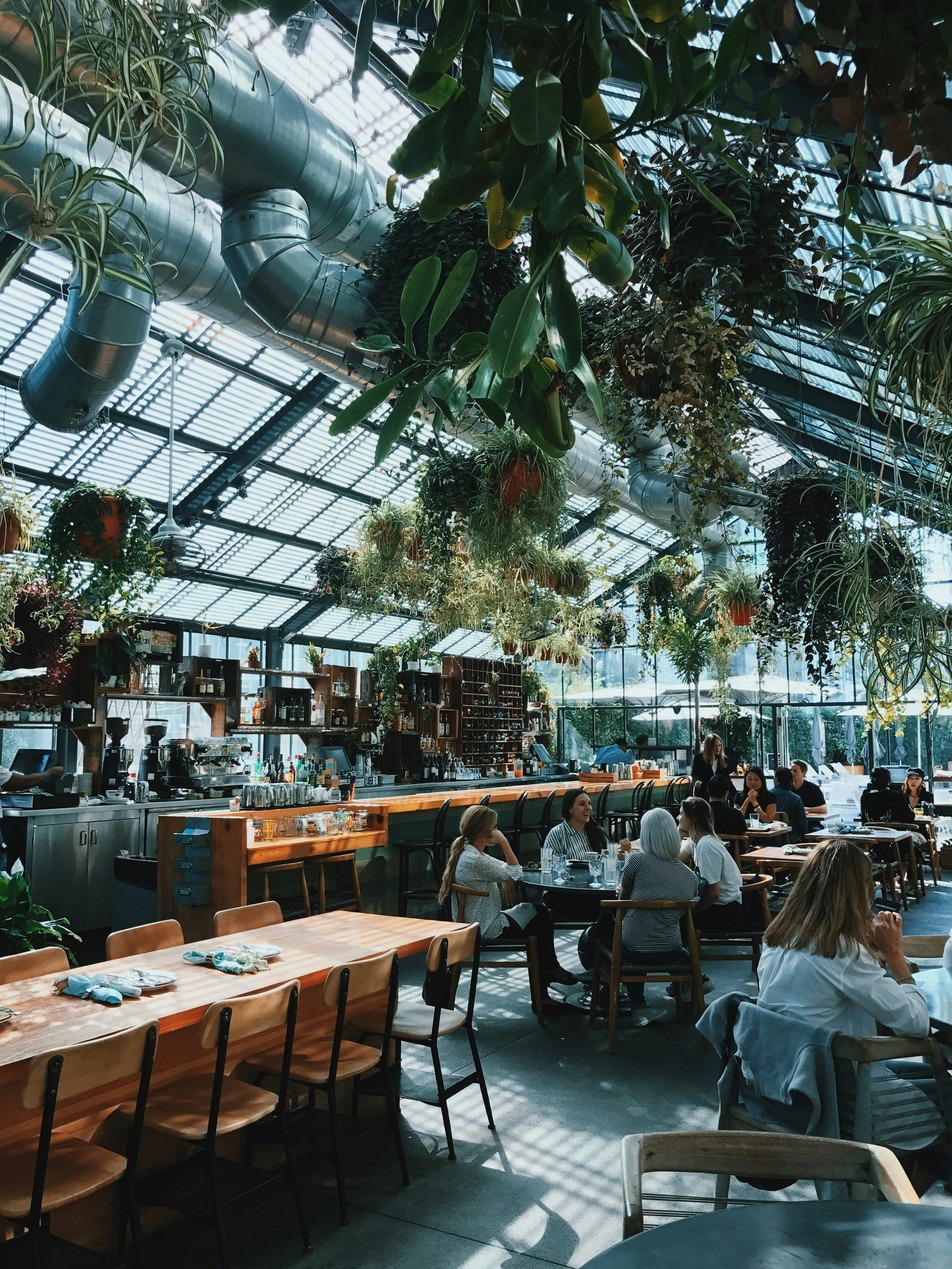
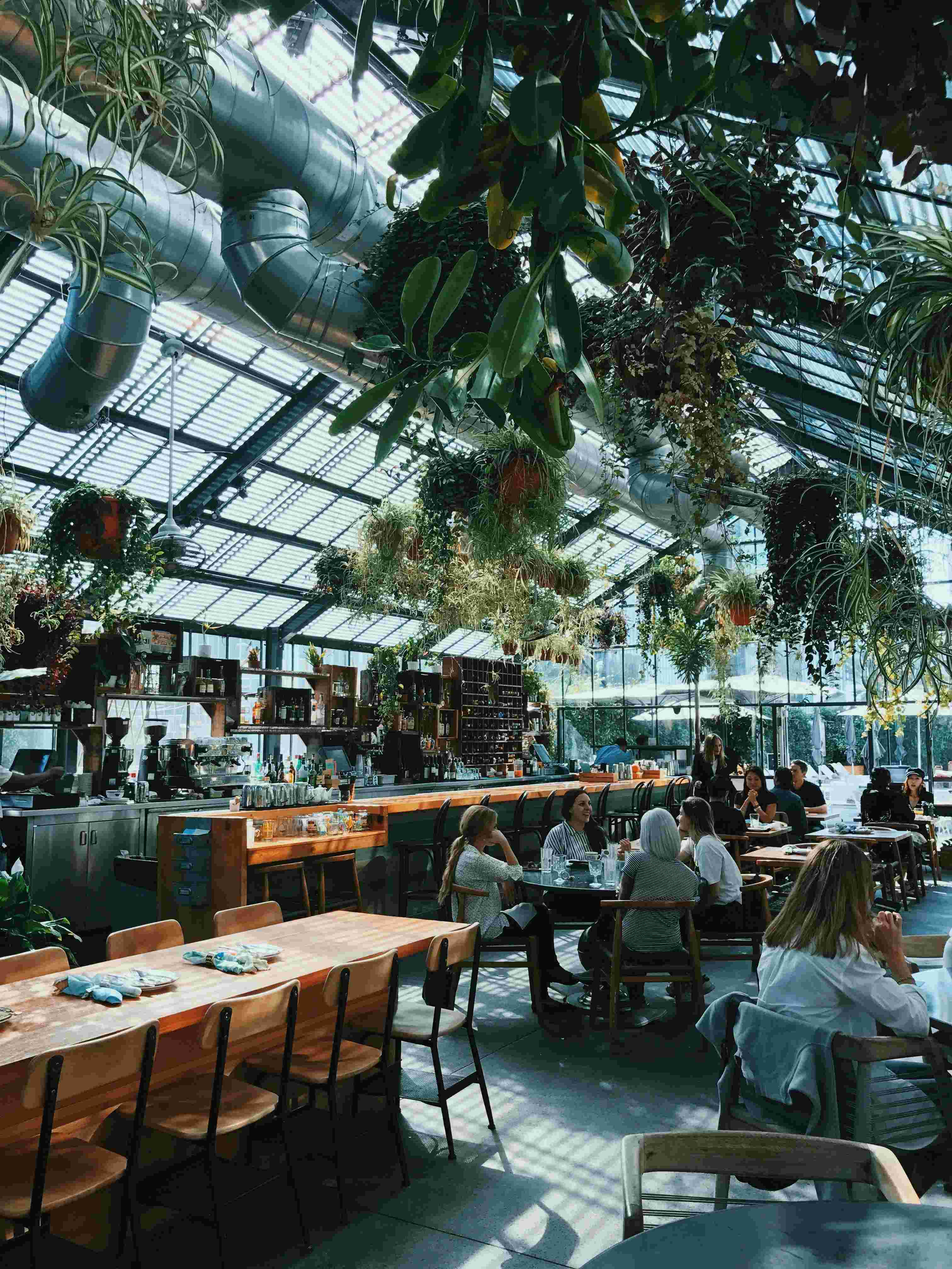
docs: update readme, and reduce default image filesize

diff --git a/README.md b/README.md
@@ -18,47 +18,29 @@ With the growing demand for on-demand food delivery, restaurants are seeking eff
 
     Open **Docker Desktop** on your machine.
 
-3. **Build and start all services**
+3. (Only for Windows) The backend has a shell script [backend/entrypoint.sh](./backend/entrypoint.sh) that may be converted to CRLF line endings when on Windows. So we need to convert it to LF line endings before running the docker service. 
+
+    ```sh
+    # open a git bash terminal(!!) at the project root folder.
+
+    dos2unix backend/entrypoint.sh
+
+    # the terminal will show:
+    # dos2unix: converting file backend/entrypoint.sh to Unix format ...
+    # then you can close the terminal
+    ```
+
+4. **Build and start all services**
 
     ```sh
     docker-compose up --force-recreate --build
     ```
 
-    Visit either [http://localhost:8081](http://localhost:8081) or [http://localhost:19006](http://localhost:19006) to view the frontend.
+    Visit [http://localhost:19006](http://localhost:19006) to use the app.
 
-4. Default data
+5. Default data
 
-    The project has default data for all user types. You can use the following credentials to login. Only the first 2 records per user type are shown here. 
-
-    * **Admin**  
-
-        | Name        | Email               | Password   | User Type  |
-        |------------|--------------------|------------|------------|
-        | Tom Smith  | admin@example.com   | Abcd1234!  | Admin      |
-
-    * **Customers**  
-
-        | Name          | Email             | Password   | User Type  |
-        |--------------|------------------|------------|------------|
-        | John Doe     | john@example.com  | Abcd1234!  | Customer   |
-        | Jane Smith   | jane@example.com  | Abcd1234!  | Customer   |
-
-
-    * **Drivers**  
-
-        | Name           | Email               | Password   | User Type  |
-        |---------------|--------------------|------------|------------|
-        | Alex Johnson  | alex@example.com    | Abcd1234!  | Driver     |
-        | Sophia Wilson | sophia@example.com  | Abcd1234!  | Driver     |
-
-    * **Restaurants**  
-
-        | Name            | Email                  | Password   | User Type  |
-        |----------------|------------------------|------------|------------|
-        | Sydney Eats    | sydneyeats@example.com  | Abcd1234!  | Restaurant |
-        | Harbour Grill  | harbourgrill@example.com | Abcd1234!  | Restaurant |
-
-5. We have also prepared some demo materials (like license image, registration paper, restaurant image) in the [demo-materials folder](./demo-materials/) for you to upload during using the app. 
+    The project has default data for all user types. Please view [demo-materials/README.md](./demo-materials/README.md) for more information. And we have also prepared some images for you to upload during using the app. They are in the [demo-materials folder](./demo-materials/).
 
 ## 3. Backend Setup & Testing
 ## 3-1A. Setup Server (Local)
